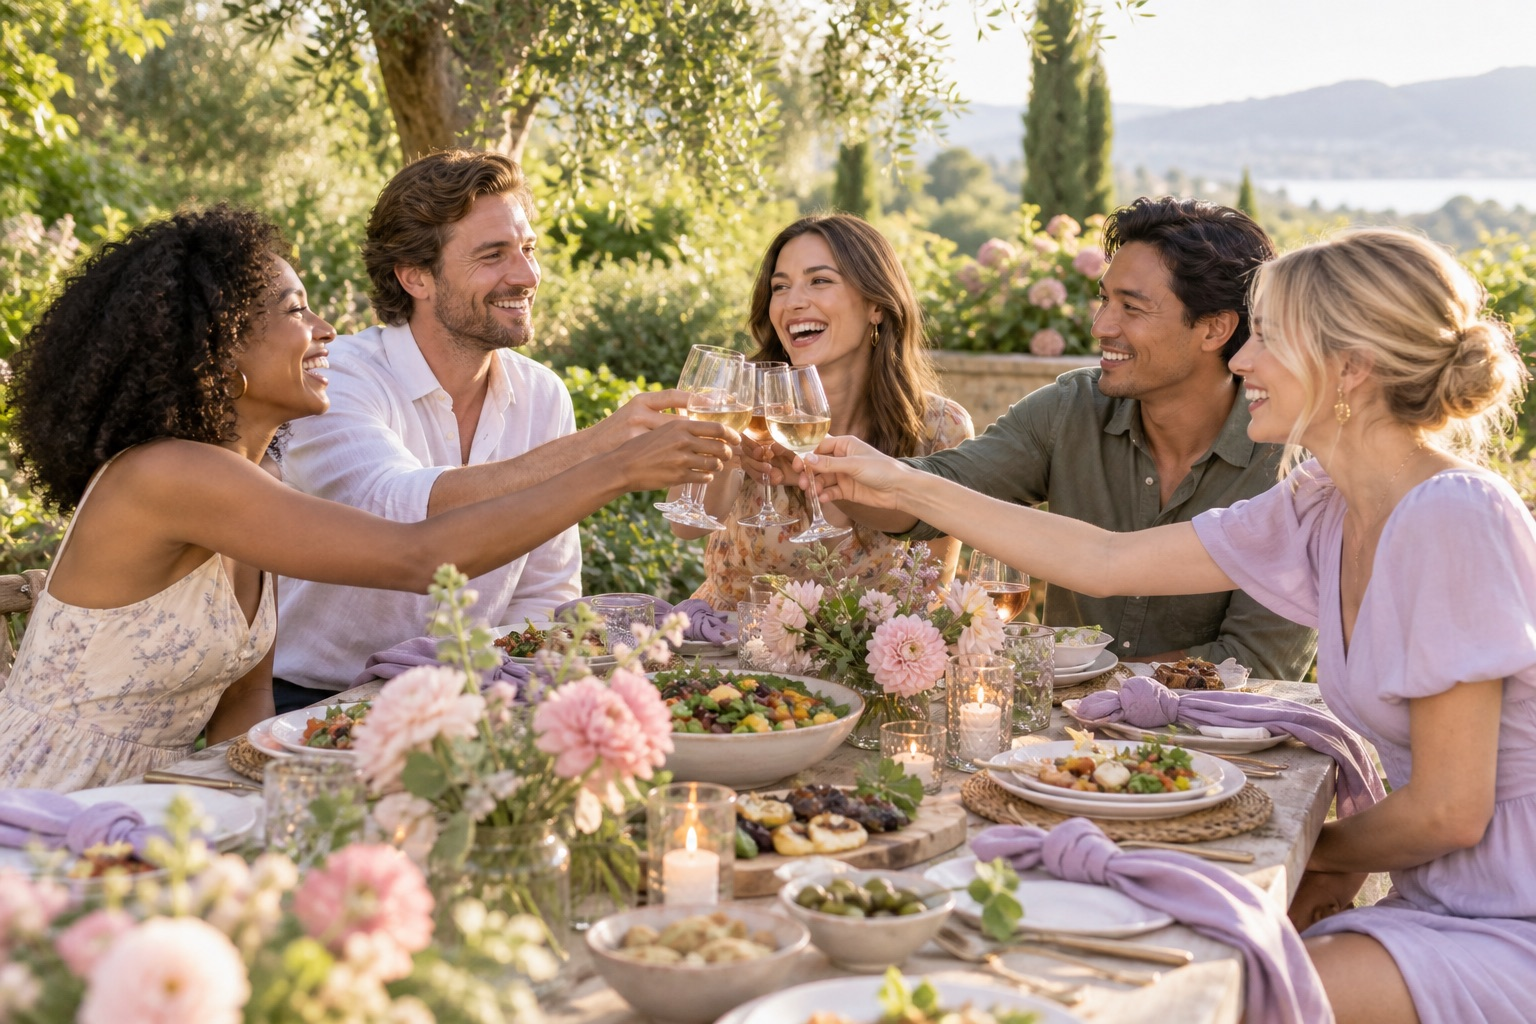
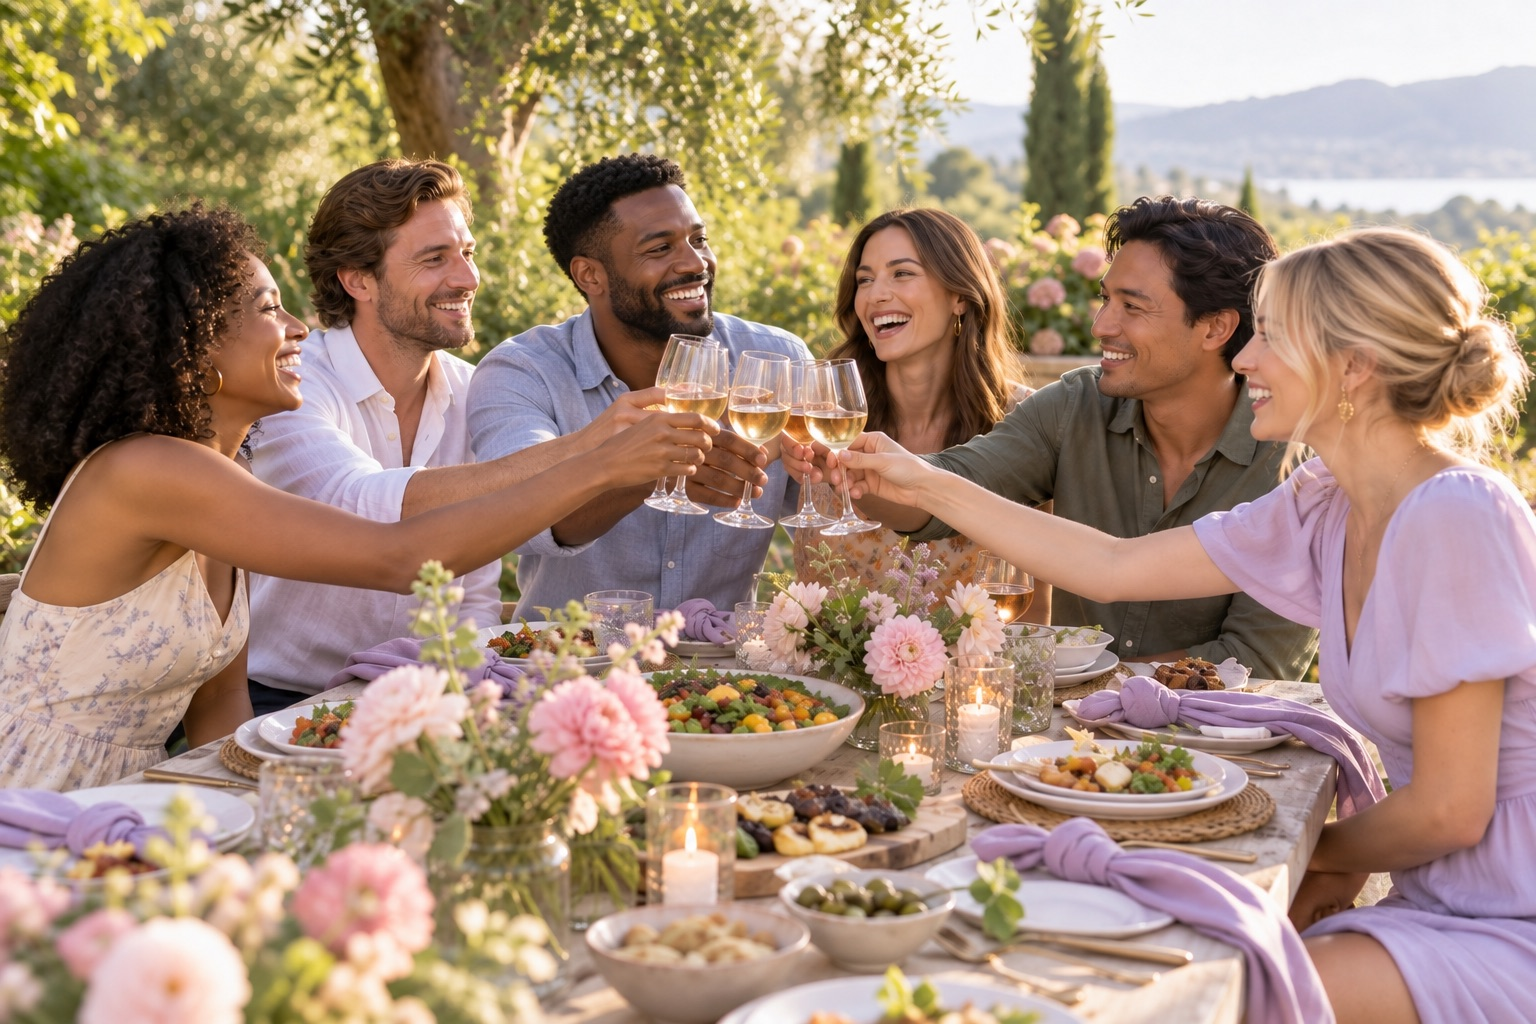
Include Black man in celebration hero and clarify vendor signup links

diff --git a/src/app/page.tsx b/src/app/page.tsx
@@ -33,7 +33,7 @@ export default async function Landing() {
       <header className={styles.header}>
         <BrandLogo compact />
         <nav aria-label="Main navigation" className={styles.nav}>
-          <a href="#how">How it works</a><a href="#marketplace">Vendor directory</a><Link href="/signup?as=vendor">For vendors</Link>
+          <a href="#how">How it works</a><a href="#marketplace">Vendor directory</a><Link href="/signup?as=vendor">Vendor sign up</Link>
         </nav>
         <div className={styles.headerActions}>{!profile && <Link href="/login" className={styles.login}>Log in</Link>}<Link href={appDest} className={styles.button}>{cta}</Link></div>
       </header>
@@ -42,7 +42,7 @@ export default async function Landing() {
           <div className={styles.heroCopy}>
             <h1 id="hero-title">More celebrating.<br />Less planning.</h1>
             <p>Find your vendors, organize the details, and bring your event together.</p>
-            <div className={styles.actions}><Link href={appDest} className={styles.button}>{cta}</Link><Link href="/signup?as=vendor" className={styles.textLink}>For vendors <span aria-hidden="true">→</span></Link></div>
+            <div className={styles.actions}><Link href={appDest} className={styles.button}>{cta}</Link><Link href="/signup?as=vendor" className={styles.textLink}>Vendor sign up <span aria-hidden="true">→</span></Link></div>
           </div>
           <div className={styles.heroPhoto}>
             <Image src="/images/landing/celebration.jpg" alt="Friends celebrating together around a garden dinner table" fill priority sizes="(max-width: 767px) 100vw, 55vw" className={styles.cover} />
@@ -67,7 +67,7 @@ export default async function Landing() {
         <section className={`${styles.container} ${styles.celebrations}`} aria-labelledby="celebrations-title"><div className={styles.occasionStrip}><h2 id="celebrations-title">Plan any kind of celebration</h2><ul>{occasions.map(({Icon,label}) => <li key={label}><Icon size={27} /><span>{label}</span></li>)}</ul></div></section>
         <section className={`${styles.container} ${styles.ctaSection}`} aria-labelledby="cta-title"><div className={styles.ctaStrip}><div><h2 id="cta-title">Your next celebration starts with Fleora.</h2><p>{profile ? "Bring your plans and your people together." : "Join the waitlist for customer launch updates."}</p></div><div className={styles.ctaActions}><Link href={appDest} className={styles.button}>{cta}</Link><p>Are you a vendor? <Link href="/signup?as=vendor">List your business <span aria-hidden="true">→</span></Link></p></div></div></section>
       </main>
-      <footer className={`${styles.container} ${styles.footer}`}><BrandLogo compact /><nav aria-label="Footer navigation"><a href="#how">How it works</a><a href="#marketplace">Vendor directory</a><Link href="/signup?as=vendor">For vendors</Link><Link href="/login">Log in</Link></nav></footer>
+      <footer className={`${styles.container} ${styles.footer}`}><BrandLogo compact /><nav aria-label="Footer navigation"><a href="#how">How it works</a><a href="#marketplace">Vendor directory</a><Link href="/signup?as=vendor">Vendor sign up</Link><Link href="/login">Log in</Link></nav></footer>
     </div>
   );
 }
